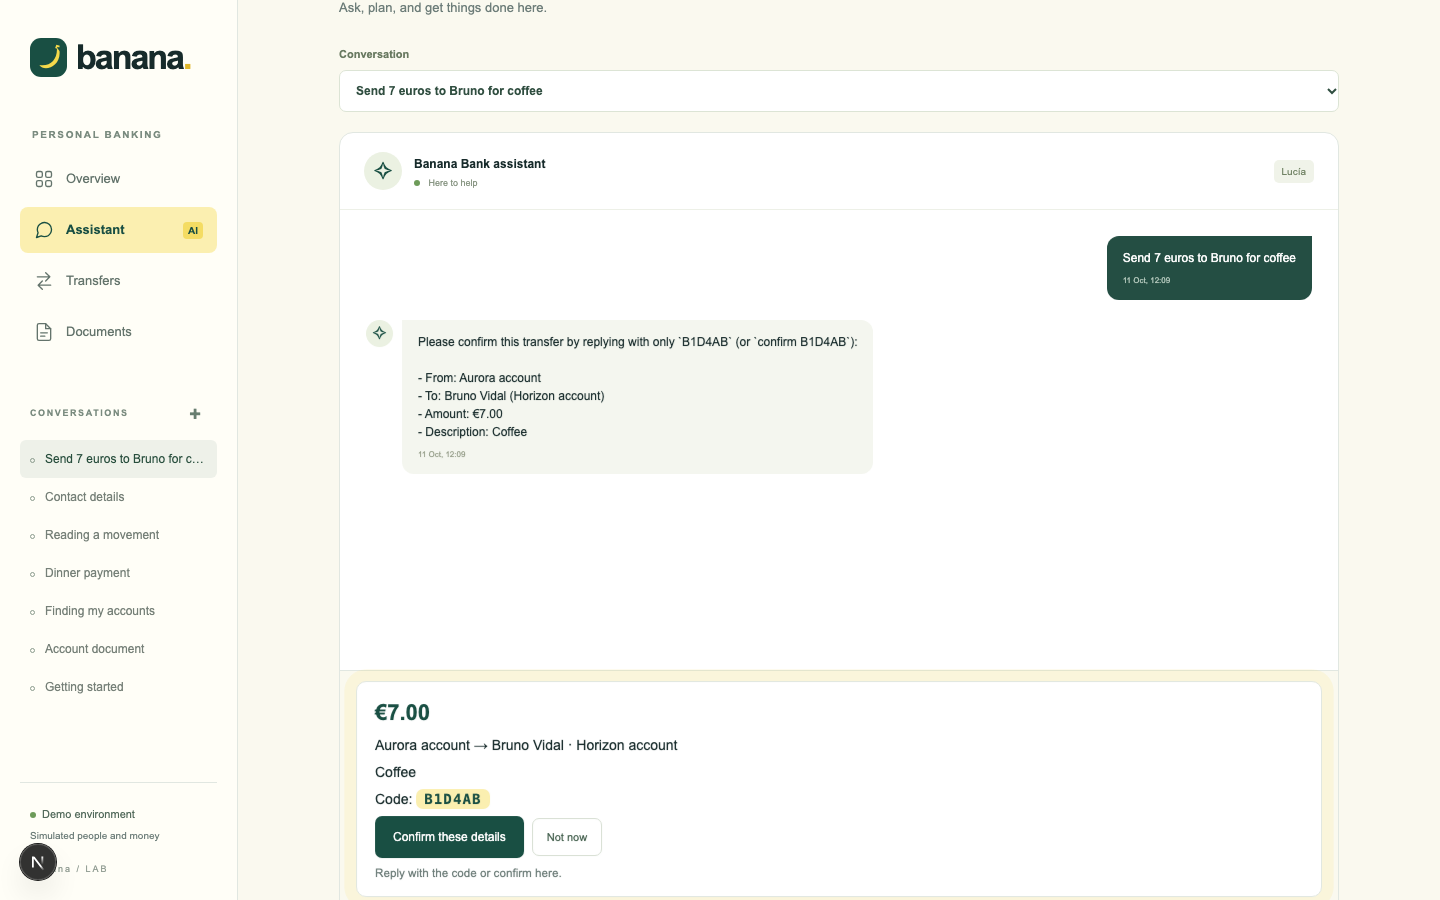
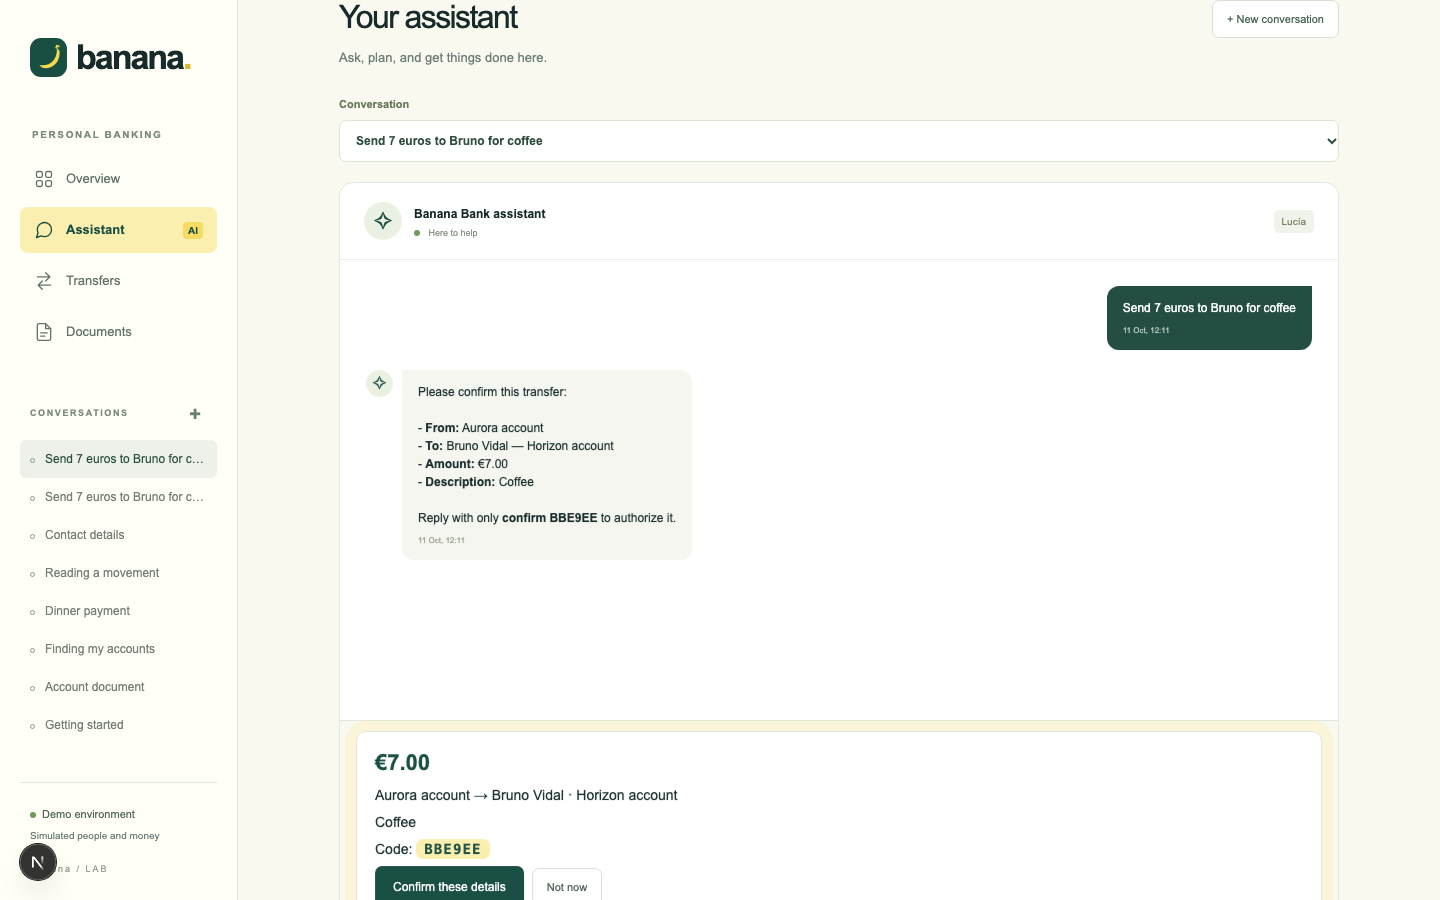
UI: inline code in chat bubbles; notes and evidence for the motion pass

diff --git a/app/components/ChatTab.tsx b/app/components/ChatTab.tsx
@@ -111,10 +111,14 @@ export default function ChatTab({
               <div className="bubble">
                 <div>
                   {String(m.content)
-                    .split(/(\*\*[^*]+\*\*)/g)
+                    .split(/(\*\*[^*]+\*\*|`[^`]+`)/g)
                     .map((part, j) =>
                       part.startsWith('**') && part.endsWith('**') ? (
                         <strong key={j}>{part.slice(2, -2)}</strong>
+                      ) : part.startsWith('`') && part.endsWith('`') ? (
+                        <code key={j} className="inline-code">
+                          {part.slice(1, -1)}
+                        </code>
                       ) : (
                         part
                       ),

diff --git a/app/styles/chat.css b/app/styles/chat.css
@@ -73,6 +73,13 @@
   margin-top: 8px;
   color: var(--color-bubble-meta);
 }
+.bubble .inline-code {
+  font-family: ui-monospace, Menlo, monospace;
+  background: var(--color-accent-soft);
+  border-radius: var(--radius-xs);
+  padding: 0 0.35em;
+  color: var(--forest);
+}
 .message.user {
   justify-content: flex-end;
 }

diff --git a/submission/README.md b/submission/README.md
@@ -2,7 +2,7 @@
 
 - Fecha de entrega: 12 de octubre de 2026.
 - Arranque: ver `README.md` en la raíz (`npm ci`, `npm run setup`, editar `.env.local` con `OPENAI_API_KEY`, `npm run doctor`, `npm run dev`, abrir http://127.0.0.1:3000). No hace falta nada más que lo que pide el starter. El índice de documentos incluido (`fixtures/embeddings/index.json.gz`) ya está regenerado con el nuevo chunker, así que no es necesario ejecutar `npm run ingest`.
-- Comprobaciones: `npm test` (55 pruebas; el starter traía 13), `npm run typecheck`, `npx prettier --check app src tests`.
+- Comprobaciones: `npm test` (57 pruebas; el starter traía 13), `npm run typecheck`, `npx prettier --check app src tests`.
 - El simulador (`simulator/`) no se ha tocado. La aplicación sigue hablando con el banco solo por su API HTTP firmada.
 
 ## Cómo probar en dos minutos
@@ -52,7 +52,16 @@ El simulador. Tampoco he cambiado el contrato de la API de la aplicación: todas
 - Tokens de diseño: todos los colores y radios de la hoja de estilos salen de variables con nombre por rol (`app/styles/tokens.css`), sin cambio visual.
 - Vista: `app/page.tsx` (1.200 líneas) partido en componentes por pestaña (`app/components/`), un hook con el estado y las acciones (`app/hooks/useBananaApp.ts`) y una hoja de estilos por componente (`app/styles/`).
 
-Cada paso se verificó con una herramienta de paridad visual (Playwright, 8 capturas a 1440 px, comparación píxel a píxel con Pillow): 0 píxeles de diferencia en los tres pasos, además de las 55 pruebas, el typecheck y un flujo funcional automatizado. Evidencias: `submission/evidencias/despues/16-paridad-api.txt` y `17-paridad-tokens-y-componentes.txt`.
+Cada paso se verificó con una herramienta de paridad visual (Playwright, 8 capturas a 1440 px, comparación píxel a píxel con Pillow): 0 píxeles de diferencia en los tres pasos, además de las 57 pruebas, el typecheck y un flujo funcional automatizado. Evidencias: `submission/evidencias/despues/16-paridad-api.txt` y `17-paridad-tokens-y-componentes.txt`.
+
+## Pulido de interfaz y movimiento
+
+- Una app bancaria se juzga también por los detalles que no se ven: la respuesta al pulsar, las entradas suaves, un estado de carga con identidad. El bloque añade tokens de movimiento con nombre (`--ease-out`, `--ease-in-out`, `--dur-press` a `--dur-slow`) y una hoja `app/styles/motion.css` con un storyboard que documenta cada micro-interacción y su tiempo.
+- Micro-interacciones: `scale(0.97)` al pulsar, hovers sutiles solo en puntero fino, anillo de foco de 2 px coherente, indicador de navegación deslizante, entrada de pestaña con `@starting-style`, listas con stagger de 30 ms, burbujas que emergen y avisos que entran, salen y se auto-cierran a los 6 s.
+- Marca: el plátano es ahora un componente (`BananaMark`) que se balancea en las pantallas de espera, acompaña al "Checking…" del chat, hace una sacudida al pasar sobre el logo y es el favicon (`app/icon.svg`).
+- La propuesta de transferencia aparece además dentro de la conversación que la creó (importe, origen → destino, código y botón), y el titular puede descartarla con **Not now**: `POST /api/approvals/:id/dismiss` consume la aprobación, marca la intención `cancelled` y deja un evento `transfer.cancelled` auditado.
+- Accesibilidad: con `prefers-reduced-motion` desaparecen todos los movimientos de transformación y quedan solo cambios de opacidad y color.
+- Evidencias: `submission/evidencias/despues/19-ui-*.png`, `19-ui-microinteracciones.webm` y la nota `19-ui-microinteracciones.md`.
 
 ## Método de trabajo y verificación
 
@@ -76,6 +85,6 @@ Cada paso se verificó con una herramienta de paridad visual (Playwright, 8 capt
 
 ## Terminado, verificado y pendiente
 
-- Terminado y verificado: los tres bloques de la Parte 1, el copiloto de la Parte 2, 55 pruebas, build de producción, vídeo de demostración de 6:12.
+- Terminado y verificado: los tres bloques de la Parte 1, el copiloto de la Parte 2, 57 pruebas, build de producción, vídeo de demostración de 6:12.
 - Límites conocidos: la confirmación por chat exige que el mensaje sea solo el código (con "confirm" o "yes" opcionales); cualquier otra redacción se rechaza y el agente vuelve a pedir el código. El bloqueo de operaciones equivalentes compara cuenta origen, destino e importe mientras exista una operación sin resolver; dos intenciones legítimas idénticas sí pueden ejecutarse una vez resuelta la primera. El copiloto reduce pero no elimina el riesgo de que el modelo califique como hecho algo escrito por el cliente; por eso la interfaz separa lo verificado por el ledger (reconciliación, calculada en código) de lo redactado por el modelo.
 - Pendiente (fuera de alcance por tiempo): búsqueda vectorial fuera de memoria para corpus grandes.

diff --git a/README.md b/README.md
@@ -9,8 +9,9 @@ Banana Bank is a fictional bank with an AI assistant. You receive a working appl
 - **Grounded agent (Part 1).** Scope-limited prompt with citations, paragraph-aware chunking with full metadata, validity filtering and per-document caps in search. The bundled `fixtures/embeddings/index.json.gz` is already regenerated with the new chunker.
 - **Operator copilot (Part 2).** Case view with conversation, agent activity, intents and bank-ledger reconciliation; one-click reconcile and close; strict-schema evidence-bound briefs.
 - **Refactor (no behavior change).** Route table + per-domain API handlers, role-based design tokens, per-tab components and per-component stylesheets; verified with pixel-parity screenshots.
+- **UI polish.** Motion tokens, press/hover/focus states, sliding nav indicator, staggered lists, banana loading mark, in-chat proposal card with dismiss; reduced-motion aware.
 - **Session viewer.** `submission/ai-sessions-viewer/index.html` opens offline (double-click) and renders every exported AI session on a timeline with a per-lane graph, node detail, filters and search; generated by `submission/tools/build-sessions-viewer.mjs`.
-- **Tests:** 55 automated tests plus `npm run typecheck` and Prettier checks, all green. Full explanation (Spanish) in `submission/README.md`; before/after reproductions, chats, and screenshots in `submission/evidencias/`.
+- **Tests:** 57 automated tests plus `npm run typecheck` and Prettier checks, all green. Full explanation (Spanish) in `submission/README.md`; before/after reproductions, chats, and screenshots in `submission/evidencias/`.
 
 ## Before you start
 
@@ -70,19 +71,19 @@ Existing installations: stop the services and run `npm run reset` to load the up
 
 ## Commands
 
-| Command | Effect |
-|---|---|
-| `npm run setup` | Creates missing configuration; seeds empty databases only |
-| `npm run dev` | Starts both services in development mode |
-| `npm run reset` | With services stopped, restores both databases and the supplied index; deletes local activity |
-| `npm run ingest` | Reprocesses documents and replaces the index, reusing identical cached embeddings |
-| `npm run ingest -- --export` | Also updates the portable index included in the repository |
-| `npm run scenario -- normal` | Configures the running bank with normal responses |
-| `npm run scenario -- intermittent 17` | Activates a reproducible sequence of transport incidents |
-| `npm run scenario -- lost-response` | The next new operation receives an error after its effects are committed |
-| `npm run typecheck` / `npm test` | Checks types and public invariants |
-| `npm run build` | Creates the production build; run this before `npm start` |
-| `npm start` | Starts both services using an existing production build |
+| Command                               | Effect                                                                                        |
+| ------------------------------------- | --------------------------------------------------------------------------------------------- |
+| `npm run setup`                       | Creates missing configuration; seeds empty databases only                                     |
+| `npm run dev`                         | Starts both services in development mode                                                      |
+| `npm run reset`                       | With services stopped, restores both databases and the supplied index; deletes local activity |
+| `npm run ingest`                      | Reprocesses documents and replaces the index, reusing identical cached embeddings             |
+| `npm run ingest -- --export`          | Also updates the portable index included in the repository                                    |
+| `npm run scenario -- normal`          | Configures the running bank with normal responses                                             |
+| `npm run scenario -- intermittent 17` | Activates a reproducible sequence of transport incidents                                      |
+| `npm run scenario -- lost-response`   | The next new operation receives an error after its effects are committed                      |
+| `npm run typecheck` / `npm test`      | Checks types and public invariants                                                            |
+| `npm run build`                       | Creates the production build; run this before `npm start`                                     |
+| `npm start`                           | Starts both services using an existing production build                                       |
 
 For production mode, stop development services, run `npm run build`, then run `npm start`. Rebuild after changing application code. Development mode does not require a production build.
 

diff --git a/submission/evidencias/despues/19-ui-microinteracciones.md b/submission/evidencias/despues/19-ui-microinteracciones.md
@@ -1,0 +1,23 @@
+# 19 · Pulido de interfaz: micro-interacciones y animación de marca
+
+## Qué cambió
+
+- Tokens de movimiento con nombre en `app/styles/tokens.css`: `--ease-out`, `--ease-in-out`, `--dur-press` (120 ms), `--dur-fast` (160 ms), `--dur-base` (220 ms), `--dur-slow` (320 ms). Todas las animaciones solo mueven `transform` y `opacity`; nada de `transition: all`. El storyboard está documentado al inicio de `app/styles/motion.css`.
+- Pulsables (`primary`/`secondary`/nav/casos/conversaciones/documentos/composer): `scale(0.97)` al pulsar en 120 ms, hover sutil solo con `@media (hover:hover) and (pointer:fine)`, anillo de foco `--color-brand` de 2 px con `:focus-visible`, y texto ocupado con `blur(2px)` + opacidad .7 ("Sending…", "Confirming…").
+- Navegación: indicador deslizante (`.nav-indicator`, `useLayoutEffect` + `offsetTop`, `translateY` en `--dur-base --ease-in-out`); el item activo ya no pinta su propio fondo.
+- Entradas: cada pestaña entra con `@starting-style` (`opacity 0 → 1`, `translateY 6px → 0`); las listas (actividad, casos, documentos, resultados) hacen stagger de 30 ms por fila, máximo 8 filas.
+- Chat: cada burbuja entra con `translateY(6px) + scale(.98)`; `**negrita**` y `` `código` `` se renderizan en línea; el "Checking…" lleva el BananaMark balanceándose junto a los tres puntos.
+- Marca: `app/components/BananaMark.tsx` (balanceo -10°↔10° con el rabito 0,1 s retrasado; sacudida única al pasar sobre el logo; favicon `app/icon.svg`). La pantalla de carga sustituye el spinner por el plátano.
+- Propuestas: panel "Proposals awaiting confirmation" con un pulso único de 900 ms; tarjeta inline dentro de la conversación que la originó (`conversationId`), con "Not now" que descarta vía `POST /api/approvals/:id/dismiss` (intención → `cancelled`, evento `transfer.cancelled`). El panel ordena por fecha y muestra 2 + "Show N more".
+- Operador: flash verde de 700 ms al reconciliar, el `.finding` sale con opacidad y "Draft a brief" ocupado muestra tres líneas skeleton con shimmer.
+- Avisos: entran desde arriba, salen en `--dur-fast` y el notice se auto-cierra a los 6 s. `prefers-reduced-motion` elimina todo el movimiento de transformación y deja solo opacidad/color.
+
+## Cómo se verificó
+
+- `npm test`: 57/57 (incluye dismiss: approval consumida, intent `cancelled`, evento auditado, 409 al repetir, 404 para otra persona, confirmación posterior `already_used`). `tsc --noEmit` y `prettier --check` limpios. `tools/functional.mjs`: flujo completo OK.
+- Paridad píxel a píxel frente a `ref-p3-0` (8 capturas, Pillow): 0 px en lucia-overview, lucia-document-open, marta-cases y marta-case-lucia. Las diferencias restantes son solo las zonas previstas: el item de navegación activo al hacer hover muestra ahora el indicador accent en vez de nav-hover (lucia-documents/marta-documents 8 836 px, lucia-transfers 12 206 px) y el nuevo hover de la lista de conversaciones (lucia-chat-dinner 7 271 px). La regresión inicial (chat sin estilos por reescritura del componente) se corrigió restaurando el marcado original.
+
+## Capturas y vídeo
+
+- `19-ui-overview.png`, `19-ui-chat-propuesta.png` (propuesta real creada desde el chat), `19-ui-loading.png` (plátano en carga), `19-ui-operator.png`, `19-ui-dismiss.png` (botón "Not now").
+- `19-ui-microinteracciones.webm` (27 s, 1440×900; también `19-ui-microinteracciones.mp4`, más ligero).
